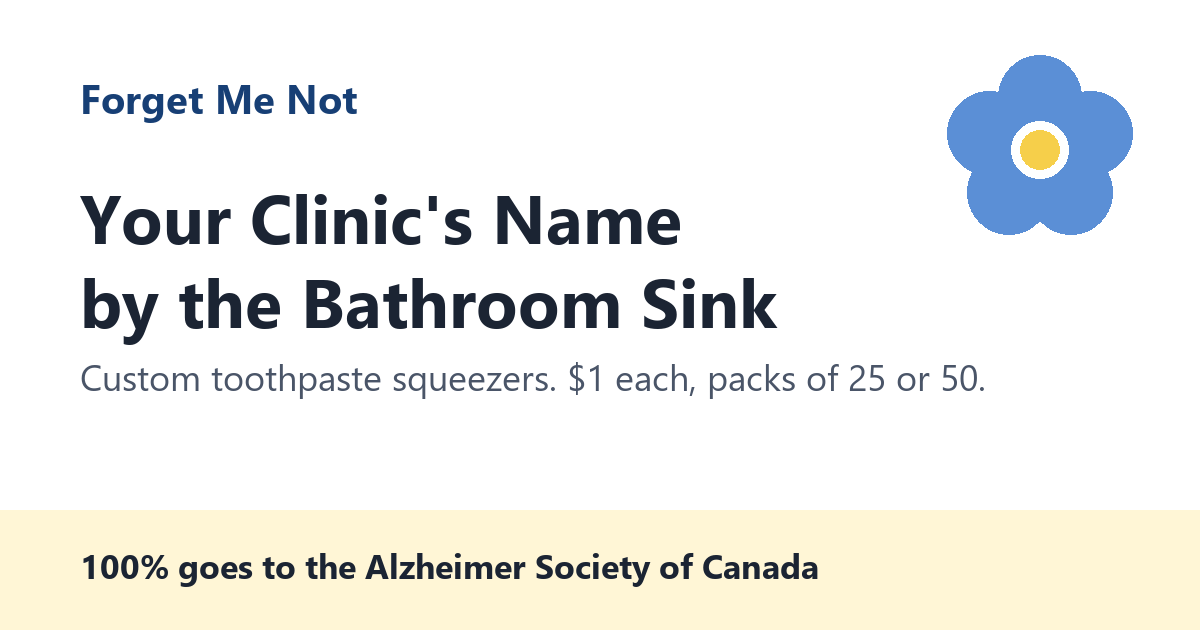
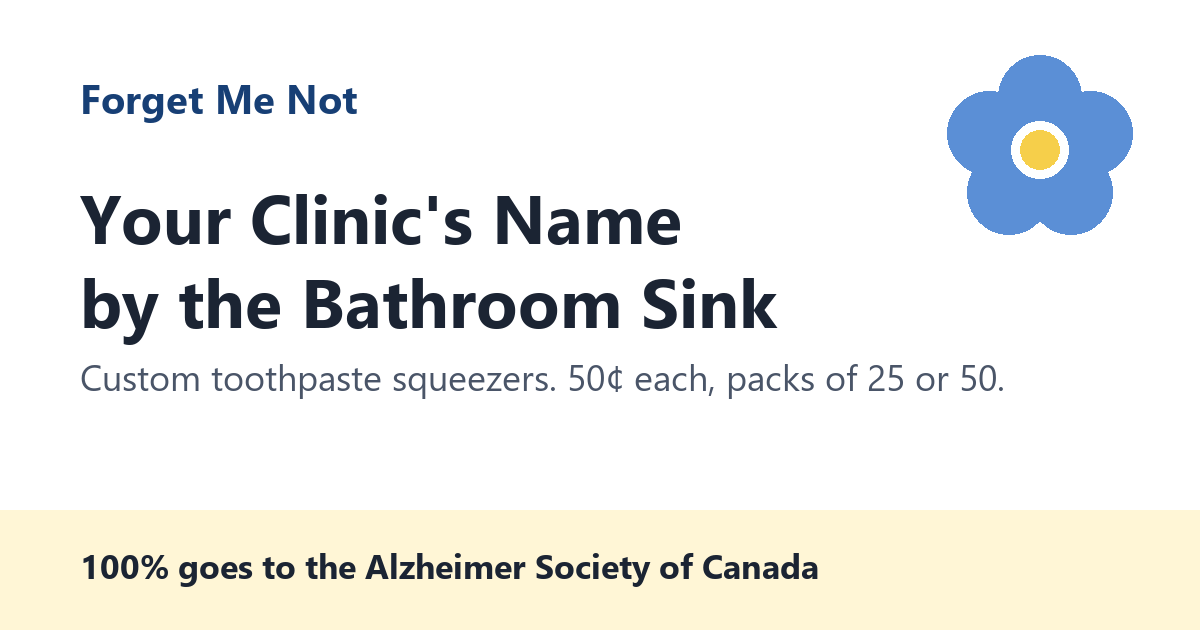
Squeezer price: 50 cents each (packs of 25 for $12.50, 50 for $25)

Changed region(s): [[0.4625, 0.573, 0.8325, 0.6333]]

diff --git a/dentists/index.html b/dentists/index.html
@@ -4,7 +4,7 @@
   <meta charset="utf-8">
   <meta name="viewport" content="width=device-width, initial-scale=1">
   <title>Custom Toothpaste Squeezers for Dental Clinics | Forget Me Not</title>
-  <meta name="description" content="Custom 3D-printed toothpaste squeezers with your clinic's name. $1 each in packs of 25 or 50. 100% of what you pay goes to the Alzheimer Society of Canada. Order by Nov 27, 2026.">
+  <meta name="description" content="Custom 3D-printed toothpaste squeezers with your clinic's name. 50¢ each in packs of 25 or 50. 100% of what you pay goes to the Alzheimer Society of Canada. Order by Nov 27, 2026.">
   <meta name="theme-color" content="#1d4f91">
 
   <!-- SITE URL: if the site address changes, update the canonical and og: URLs below. -->
@@ -12,12 +12,12 @@
   <meta property="og:type" content="website">
   <meta property="og:site_name" content="Forget Me Not">
   <meta property="og:title" content="Your Clinic's Name by the Bathroom Sink">
-  <meta property="og:description" content="Custom 3D-printed toothpaste squeezers with your clinic's name. $1 each. 100% goes to the Alzheimer Society of Canada.">
+  <meta property="og:description" content="Custom 3D-printed toothpaste squeezers with your clinic's name. 50¢ each. 100% goes to the Alzheimer Society of Canada.">
   <meta property="og:url" content="https://ivankirischian.github.io/forget-me-not/dentists/">
   <meta property="og:image" content="https://ivankirischian.github.io/forget-me-not/assets/img/og-dentists.png">
   <meta property="og:image:width" content="1200">
   <meta property="og:image:height" content="630">
-  <meta property="og:image:alt" content="Forget Me Not: custom toothpaste squeezers for dental clinics, $1 each">
+  <meta property="og:image:alt" content="Forget Me Not: custom toothpaste squeezers for dental clinics, 50¢ each">
   <meta name="twitter:card" content="summary_large_image">
 
   <link rel="icon" href="../assets/img/flower.svg" type="image/svg+xml">
@@ -42,7 +42,7 @@
         <div class="hero-cta">
           <a class="btn" href="#order">Order now</a>
           <a class="btn btn-outline" href="sms:+14154561579?&amp;body=Hi%20Ivan%2C%20we%20got%20your%20squeezer%20sample.%20We'd%20like%20to%20order%20some%20for%20our%20clinic.">Text Ivan</a>
-          <p class="hero-note">$1 each &middot; Order by Nov 27</p>
+          <p class="hero-note">50&cent; each &middot; Order by Nov 27</p>
         </div>
         <!-- PLACEHOLDER: product photo. Hidden until there's a real photo of a printed sample.
              To show it: save the photo as ../assets/img/squeezer.jpg, then replace this comment with:
@@ -96,10 +96,10 @@
     <section class="tint" aria-labelledby="pricing">
       <div class="wrap">
         <h2 id="pricing">Pricing</h2>
-        <p>$1 each, in packs of 25 or 50.</p>
+        <p>50&cent; each, in packs of 25 or 50.</p>
         <div class="prices two">
-          <div class="price"><span class="what">Pack of 25</span><span class="amount">$25</span><span class="per">$1 each</span></div>
-          <div class="price"><span class="what">Pack of 50</span><span class="amount">$50</span><span class="per">$1 each</span></div>
+          <div class="price"><span class="what">Pack of 25</span><span class="amount">$12.50</span><span class="per">50&cent; each</span></div>
+          <div class="price"><span class="what">Pack of 50</span><span class="amount">$25</span><span class="per">50&cent; each</span></div>
         </div>
         <p class="deadline">Order by Nov 27, 2026 and they'll arrive in time for the holidays.</p>
       </div>

diff --git a/README.md b/README.md
@@ -20,7 +20,7 @@ Every placeholder is marked in the HTML with a `PLACEHOLDER` comment. Search the
 
 Prices and the deadline are written out as plain text. Each page holds its own copy, so edit each file that mentions them:
 
-- **Squeezers** (`dentists/index.html`): the hero note (`$1 each · Order by Nov 27`), the Pricing section (the two `.price` boxes and the "$1 each, in packs of 25 or 50" line), the deadline line, and the FAQ. Also update the `<meta name="description">` and `og:description` tags at the top.
+- **Squeezers** (`dentists/index.html`): the hero note (`50¢ each · Order by Nov 27`), the Pricing section (the two `.price` boxes and the "50¢ each, in packs of 25 or 50" line), the deadline line, and the FAQ. Also update the `<meta name="description">` and `og:description` tags at the top.
 - **NFC tokens** (`realtors/index.html`): the hero note, the Pricing section, the deadline line, the FAQ, and the meta and `og:` tags.
 - **Preview images** (`assets/img/og-*.png`) also show the prices. If prices change, regenerate them (see "QR codes and preview images" below) or edit them in any image editor.
 
